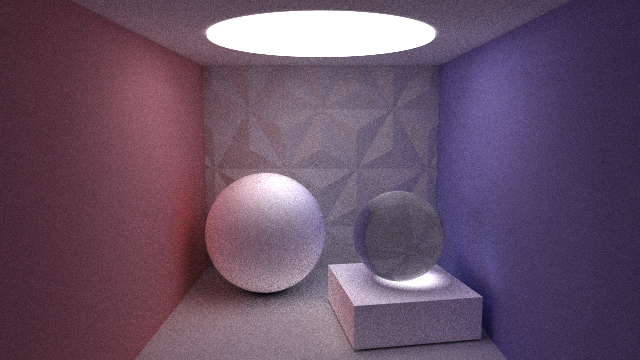
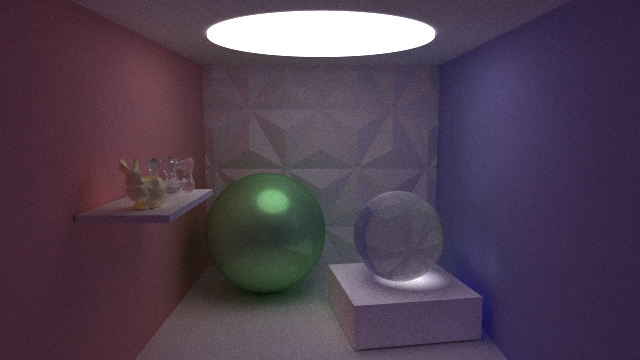
Path tracing mask limit
Add a transmitted light limit.

diff --git a/sources/AdvancedRenderer.cpp b/sources/AdvancedRenderer.cpp
@@ -234,10 +234,14 @@ RT::Color		RT::AdvancedRenderer::renderCamera(RT::Ray const & ray) const
   return renderRay((_scene->camera() * ray).normalize());
 }
 
-RT::Color		RT::AdvancedRenderer::renderRay(RT::Ray const & ray, unsigned int bounces) const
+RT::Color		RT::AdvancedRenderer::renderRay(RT::Ray const & ray, RT::Color mask, unsigned int bounces) const
 {
   // Stop if maximum number of bounces reached
-  if (bounces > RT::Config::Renderer::Advanced::MaxBounce)
+  if (bounces > RT::Config::Renderer::Advanced::MaxBounces)
+    return RT::Color(0.f);
+
+  // Stop if below minimum mask value
+  if (mask.r < RT::Config::Renderer::Advanced::MinMask.r && mask.g < RT::Config::Renderer::Advanced::MinMask.g && mask.b < RT::Config::Renderer::Advanced::MinMask.b)
     return RT::Color(0.f);
 
   std::list<RT::Intersection>	intersect = _scene->csg()->render(ray);
@@ -255,13 +259,13 @@ RT::Color		RT::AdvancedRenderer::renderRay(RT::Ray const & ray, unsigned int bou
 
   // Transparency
   if (roulette < intersect.front().material.transparency.intensity)
-    return renderTransparency(ray, intersect.front(), bounces);
+    return renderTransparency(ray, intersect.front(), mask, bounces);
 
   roulette = (roulette - intersect.front().material.transparency.intensity) / (1.f - intersect.front().material.transparency.intensity);
 
   // Reflection
   if (roulette < intersect.front().material.reflection.intensity)
-    return renderReflection(ray, intersect.front(), bounces);
+    return renderReflection(ray, intersect.front(), mask, bounces);
 
   roulette = (roulette - intersect.front().material.reflection.intensity) / (1.f - intersect.front().material.reflection.intensity);
 
@@ -273,17 +277,17 @@ RT::Color		RT::AdvancedRenderer::renderRay(RT::Ray const & ray, unsigned int bou
 
   // Diffusion
   if (roulette < intersect.front().material.indirect.diffuse / total_dse)
-    return renderDiffuse(ray, intersect.front(), bounces) * total_dse;
+    return renderDiffuse(ray, intersect.front(), mask * total_dse, bounces);
 
   // Specular
   if (roulette < (intersect.front().material.indirect.diffuse + intersect.front().material.indirect.specular) / total_dse)
-    return renderSpecular(ray, intersect.front(), bounces) * total_dse;
+    return renderSpecular(ray, intersect.front(), mask * total_dse, bounces);
 
   // Emission
-  return renderEmission(ray, intersect.front(), bounces) * total_dse;
+  return renderEmission(ray, intersect.front(), mask * total_dse, bounces);
 }
 
-RT::Color		RT::AdvancedRenderer::renderDiffuse(RT::Ray const & ray, RT::Intersection const & intersection, unsigned int bounces) const
+RT::Color		RT::AdvancedRenderer::renderDiffuse(RT::Ray const & ray, RT::Intersection const & intersection, RT::Color mask, unsigned int bounces) const
 {
   // Reverse normal if necessary
   RT::Ray		normal = intersection.normal;
@@ -302,10 +306,10 @@ RT::Color		RT::AdvancedRenderer::renderDiffuse(RT::Ray const & ray, RT::Intersec
   Math::Vector<4>	v = RT::Ray::cross(w, u);
   Math::Vector<4>	d = u * std::cos(r1) * r2s + v * std::sin(r1) * r2s + w * std::sqrt(1.f - r2);
   
-  return intersection.material.color * RT::Ray::cos(d, normal.d()) * 2.f * renderRay(RT::Ray(normal.p() + normal.d() * Math::Shift, d).normalize(), bounces + 1);
+  return renderRay(RT::Ray(normal.p() + normal.d() * Math::Shift, d).normalize(), mask * intersection.material.color * RT::Ray::cos(w, d) * 2.f, bounces + 1);
 }
 
-RT::Color		RT::AdvancedRenderer::renderSpecular(RT::Ray const & ray, RT::Intersection const & intersection, unsigned int bounces) const
+RT::Color		RT::AdvancedRenderer::renderSpecular(RT::Ray const & ray, RT::Intersection const & intersection, RT::Color mask, unsigned int bounces) const
 {
   // Reverse normal if necessary
   RT::Ray		normal = intersection.normal;
@@ -326,10 +330,14 @@ RT::Color		RT::AdvancedRenderer::renderSpecular(RT::Ray const & ray, RT::Interse
   Math::Vector<4>	v = RT::Ray::cross(w, u);
   Math::Vector<4>	d = u * std::cos(r1) * r2s + v * std::sin(r1) * r2s + w * std::sqrt(1.f - r2);
 
-  return intersection.material.color * std::pow(RT::Ray::cos(d, r.d()), intersection.material.indirect.shininess) * 2.f * renderRay(RT::Ray(r.p(), d).normalize(), bounces + 1);
+  // Cancel if ray is under object surface
+  if (RT::Ray::cos(normal.d(), d) < 0.f)
+    return RT::Color(0.f);
+
+  return renderRay(RT::Ray(r.p(), d).normalize(), mask * intersection.material.color * std::pow(RT::Ray::cos(w, d), intersection.material.indirect.shininess) * 2.f, bounces + 1);
 }
 
-RT::Color		RT::AdvancedRenderer::renderReflection(RT::Ray const & ray, RT::Intersection const & intersection, unsigned int bounces) const
+RT::Color		RT::AdvancedRenderer::renderReflection(RT::Ray const & ray, RT::Intersection const & intersection, RT::Color mask, unsigned int bounces) const
 {
   // Reverse normal if necessary
   RT::Ray		normal = intersection.normal;
@@ -369,10 +377,10 @@ RT::Color		RT::AdvancedRenderer::renderReflection(RT::Ray const & ray, RT::Inter
       r.d() += normal.d() * -2.f * (r.d().x() * normal.d().x() + r.d().y() * normal.d().y() + r.d().z() * normal.d().z()) / (normal.d().x() * normal.d().x() + normal.d().y() * normal.d().y() + normal.d().z() * normal.d().z());
   }
 
-  return intersection.material.color * renderRay(r, bounces + 1);
+  return renderRay(r, mask * intersection.material.color, bounces + 1);
 }
 
-RT::Color		RT::AdvancedRenderer::renderTransparency(RT::Ray const & ray, RT::Intersection const & intersection, unsigned int bounces) const
+RT::Color		RT::AdvancedRenderer::renderTransparency(RT::Ray const & ray, RT::Intersection const & intersection, RT::Color mask, unsigned int bounces) const
 {
   // Fresnel
   double		cosi = RT::Ray::scalar(ray.d(), intersection.normal.d());
@@ -403,7 +411,7 @@ RT::Color		RT::AdvancedRenderer::renderTransparency(RT::Ray const & ray, RT::Int
     // Copy transparency properties to reflection
     new_intersection.material.reflection.glossiness = intersection.material.transparency.glossiness;
     
-    return renderReflection(ray, new_intersection, bounces);
+    return renderReflection(ray, new_intersection, mask, bounces);
   }
 
   // Inverse normal if necessary
@@ -455,12 +463,12 @@ RT::Color		RT::AdvancedRenderer::renderTransparency(RT::Ray const & ray, RT::Int
       r.d() += normal.d() * -2.f * (r.d().x() * normal.d().x() + r.d().y() * normal.d().y() + r.d().z() * normal.d().z()) / (normal.d().x() * normal.d().x() + normal.d().y() * normal.d().y() + normal.d().z() * normal.d().z());
   }
 
-  return intersection.material.color * renderRay(r, bounces + 1);
+  return renderRay(r, mask * intersection.material.color, bounces + 1);
 }
 
-RT::Color		RT::AdvancedRenderer::renderEmission(RT::Ray const & ray, RT::Intersection const & intersection, unsigned int bounces) const
+RT::Color		RT::AdvancedRenderer::renderEmission(RT::Ray const & ray, RT::Intersection const & intersection, RT::Color mask, unsigned int bounces) const
 {
-  return intersection.material.color;
+  return mask * intersection.material.color;
 }
 
 double			RT::AdvancedRenderer::progress()

diff --git a/includes/AdvancedRenderer.hpp b/includes/AdvancedRenderer.hpp
@@ -16,8 +16,9 @@ namespace RT
     {
       namespace Advanced
       {
-	unsigned int const	MaxSample(16);	// Maximum sample per pixel (2^n)
-	unsigned int const	MaxBounce(8);	// Maximum of ray bounce
+	unsigned int const	MaxSample(16);		// Maximum sample per pixel (2^n)
+	unsigned int const	MaxBounces(16);		// Maximum of ray bounce
+	RT::Color const		MinMask(1.f / 255.f);	// Minimum color mask
       };
     };
   };
@@ -31,18 +32,18 @@ namespace RT
     unsigned long		_ray;		// Number of sample rendered
     unsigned long		_sample;	// Current level of sampling
 
-    void	begin() override;									// Method managing rendering threads
-    void	render();										// Rendering thread main method
-    void	render(unsigned int);									// Render a zone
-    RT::Color	renderVirtualReality(RT::Ray const &) const;						// Render virtual reality image
-    RT::Color	renderDephOfField(RT::Ray const &) const;						// Render deph of field image
-    RT::Color	renderCamera(RT::Ray const &) const;							// Render scene camera
-    RT::Color	renderRay(RT::Ray const &, unsigned int = 0) const;					// Render a ray with CSG tree    
-    RT::Color	renderDiffuse(RT::Ray const &, RT::Intersection const &, unsigned int) const;		// Render diffuse bounces
-    RT::Color	renderSpecular(RT::Ray const &, RT::Intersection const &, unsigned int) const;		// Render specular bounces
-    RT::Color	renderReflection(RT::Ray const &, RT::Intersection const &, unsigned int) const;	// Render reflection bounces
-    RT::Color	renderTransparency(RT::Ray const &, RT::Intersection const &, unsigned int) const;	// Render transparency bounces
-    RT::Color	renderEmission(RT::Ray const &, RT::Intersection const &, unsigned int) const;		// Render emitted light
+    void	begin() override;										// Method managing rendering threads
+    void	render();											// Rendering thread main method
+    void	render(unsigned int);										// Render a zone
+    RT::Color	renderVirtualReality(RT::Ray const &) const;							// Render virtual reality image
+    RT::Color	renderDephOfField(RT::Ray const &) const;							// Render deph of field image
+    RT::Color	renderCamera(RT::Ray const &) const;								// Render scene camera
+    RT::Color	renderRay(RT::Ray const &, RT::Color = RT::Color(1.f), unsigned int = 0) const;			// Render a ray with CSG tree    
+    RT::Color	renderDiffuse(RT::Ray const &, RT::Intersection const &, RT::Color, unsigned int) const;	// Render diffuse bounces
+    RT::Color	renderSpecular(RT::Ray const &, RT::Intersection const &, RT::Color, unsigned int) const;	// Render specular bounces
+    RT::Color	renderReflection(RT::Ray const &, RT::Intersection const &, RT::Color, unsigned int) const;	// Render reflection bounces
+    RT::Color	renderTransparency(RT::Ray const &, RT::Intersection const &, RT::Color, unsigned int) const;	// Render transparency bounces
+    RT::Color	renderEmission(RT::Ray const &, RT::Intersection const &, RT::Color, unsigned int) const;	// Render emitted light
 
   public:
     AdvancedRenderer();
